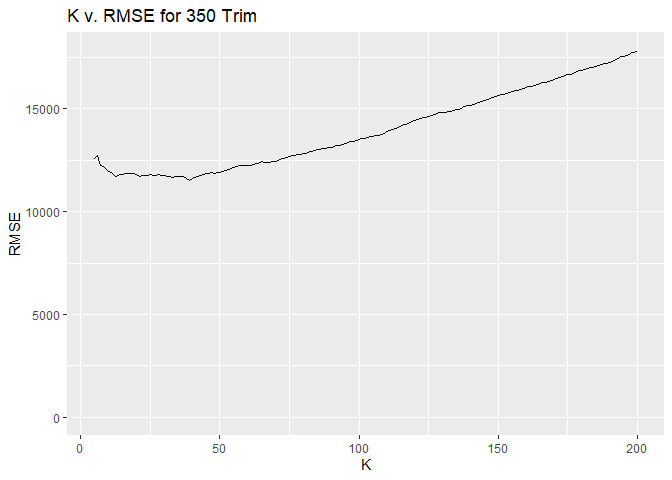
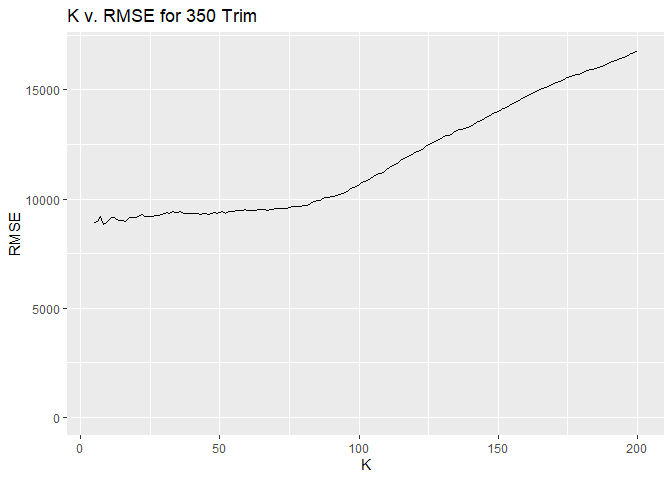
Final????

diff --git a/My Work/Homework/Homework-1.md b/My Work/Homework/Homework-1.md
@@ -23,8 +23,6 @@ and 65 AMG trim levels as subsets of the data.
 The following are the Root Mean-Squared Errors (RMSE) for each of the
 trim types at specified:
 
-    # I originally wanted to do inline code to display the values, but they would not translate to R correctly.
-
 ### Trim: 350
 
 -   (K = 5) = 10550.83
@@ -48,13 +46,9 @@ trim types at specified:
 We can look at plots of RMSE versus K to estimate what the optimal K is
 for each trim.
 
-    ## Warning: Removed 4 rows containing missing values (geom_path).
-
 ![](Homework-1_files/figure-markdown_strict/plots2-1.png)
 
 For the 350 trim, our optimum value of K is K = 15
-
-    ## Warning: Removed 4 rows containing missing values (geom_path).
 
 ![](Homework-1_files/figure-markdown_strict/65plot-1.png) It is harder
 to tell for the 65 AMG trim, but it seems that our optimal K is
